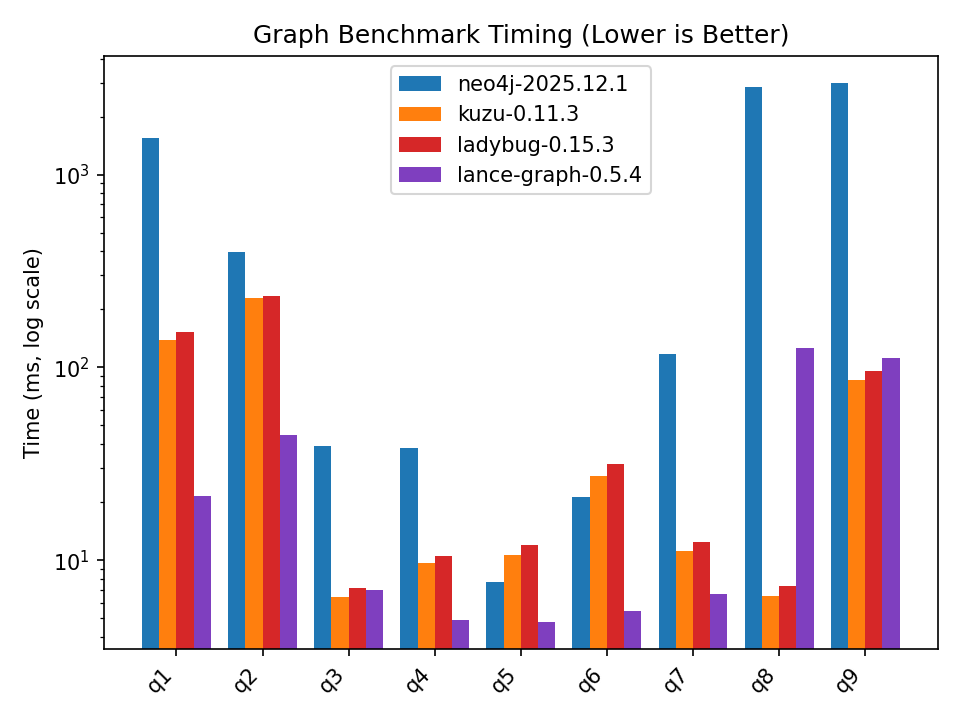
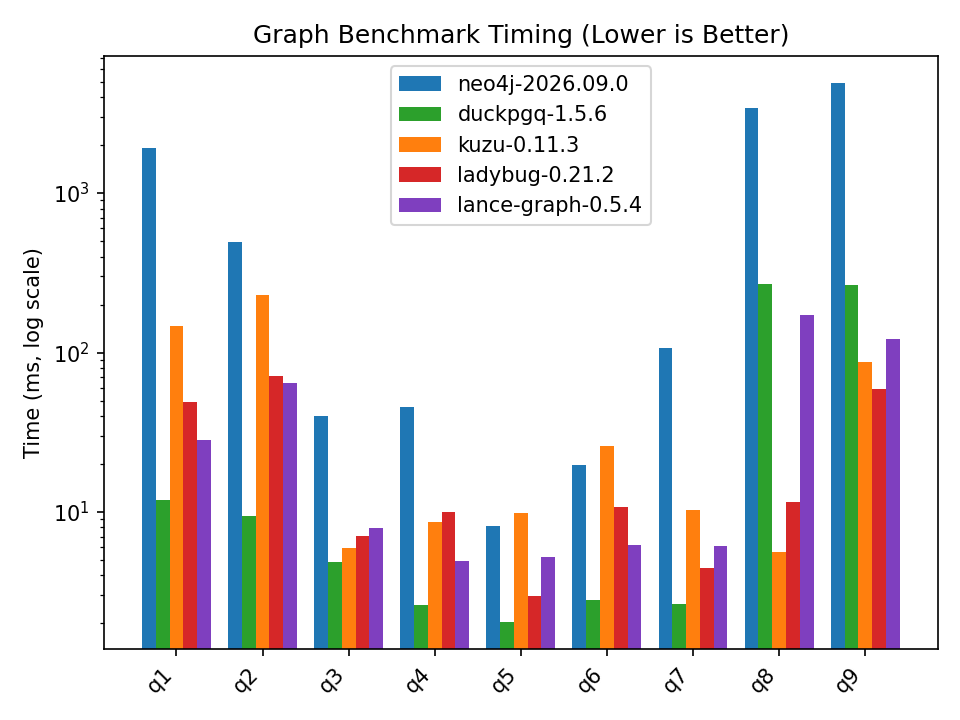
Update results table and plot, and document the benchmark machine
Regenerate the comparison table and plot with all five systems, and
record the M5 MacBook Pro configuration in the top-level README.

diff --git a/README.md b/README.md
@@ -84,7 +84,7 @@ The generated dataset produces a rich and well-connected graph, a subgraph of wh
 
 Some sample queries are run in each DB to verify that the data is ingested correctly, and that the results are consistent with one another. The queries are written in Cypher for Neo4j, Kuzu, Ladybug and lance-graph, and in SQL/PGQ for DuckPGQ.
 
-The following questions are asked of both graphs:
+The following questions are asked of each system:
 
 * **Query 1**: Who are the top 3 most-followed persons?
 * **Query 2**: In which city does the most-followed person live?
@@ -98,17 +98,29 @@ The following questions are asked of both graphs:
 
 ## High-level results
 
-| Query | neo4j-2025.12.1 (ms) | kuzu-0.11.3 (ms) | ladybug-0.15.3 (ms) | lance-graph-0.5.4 (ms) |
-| --- | --- | --- | --- | --- |
-| q1 | 1552.0ms | 138.0ms (11.2x) | 152.7ms (10.2x) | 21.5ms (72.0x) |
-| q2 | 395.0ms | 227.9ms (1.7x) | 235.7ms (1.7x) | 44.4ms (8.9x) |
-| q3 | 39.1ms | 6.4ms (6.1x) | 7.1ms (5.5x) | 7.0ms (5.6x) |
-| q4 | 38.3ms | 9.7ms (3.9x) | 10.5ms (3.6x) | 4.9ms (7.8x) |
-| q5 | 7.7ms | 10.6ms (0.7x) | 12.0ms (0.6x) | 4.8ms (1.6x) |
-| q6 | 21.2ms | 27.3ms (0.8x) | 31.4ms (0.7x) | 5.4ms (3.9x) |
-| q7 | 117.4ms | 11.2ms (10.5x) | 12.4ms (9.5x) | 6.7ms (17.6x) |
-| q8 | 2831.2ms | 6.5ms (435.3x) | 7.3ms (385.8x) | 126.2ms (22.4x) |
-| q9 | 2986.7ms | 86.1ms (34.7x) | 95.2ms (31.4x) | 111.7ms (26.7x) |
+All numbers below are the mean latency over multiple `pytest-benchmark` rounds, with the speedup relative to Neo4j shown in parentheses. They were run on the following machine:
+
+| Component | Details |
+| --- | --- |
+| Machine | MacBook Pro (Mac17,2) |
+| Chip | Apple M5, 10-core CPU (4 performance + 6 efficiency cores) |
+| Memory | 24 GB |
+| OS | macOS 26.6.2 |
+| Python | 3.13.14 (via `uv`) |
+| Neo4j | 2026.09.0 community edition, in Docker 29.8.1 (2 GB page cache, 2–4 GB heap) |
+| Embedded systems | Kuzu 0.11.3, Ladybug 0.21.2, lance-graph 0.5.4, DuckDB 1.5.6 + DuckPGQ (`61f5d082`) |
+
+| Query | neo4j-2026.09.0 (ms) | duckpgq-1.5.6 (ms) | kuzu-0.11.3 (ms) | ladybug-0.21.2 (ms) | lance-graph-0.5.4 (ms) |
+| --- | --- | --- | --- | --- | --- |
+| q1 | 1919.1ms | 11.9ms (161.6x) | 145.7ms (13.2x) | 48.8ms (39.3x) | 28.3ms (67.9x) |
+| q2 | 496.1ms | 9.4ms (52.8x) | 228.8ms (2.2x) | 71.1ms (7.0x) | 64.8ms (7.7x) |
+| q3 | 40.2ms | 4.8ms (8.3x) | 6.0ms (6.7x) | 7.0ms (5.7x) | 7.9ms (5.1x) |
+| q4 | 45.8ms | 2.6ms (17.6x) | 8.6ms (5.3x) | 10.0ms (4.6x) | 4.9ms (9.3x) |
+| q5 | 8.2ms | 2.0ms (4.0x) | 9.8ms (0.8x) | 3.0ms (2.7x) | 5.2ms (1.6x) |
+| q6 | 19.8ms | 2.8ms (7.0x) | 25.9ms (0.8x) | 10.8ms (1.8x) | 6.3ms (3.2x) |
+| q7 | 106.5ms | 2.6ms (40.5x) | 10.2ms (10.4x) | 4.5ms (23.7x) | 6.1ms (17.5x) |
+| q8 | 3407.5ms | 270.6ms (12.6x) | 5.6ms (607.4x) | 11.5ms (296.3x) | 172.1ms (19.8x) |
+| q9 | 4903.0ms | 264.6ms (18.5x) | 87.8ms (55.8x) | 59.5ms (82.5x) | 122.2ms (40.1x) |
 
 ![](./results/benchmark_plot.png)
 
